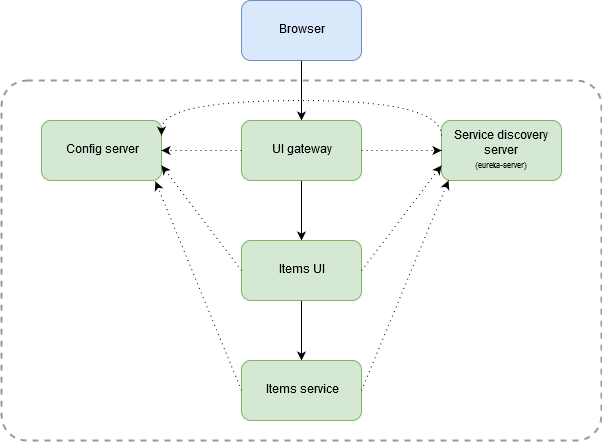
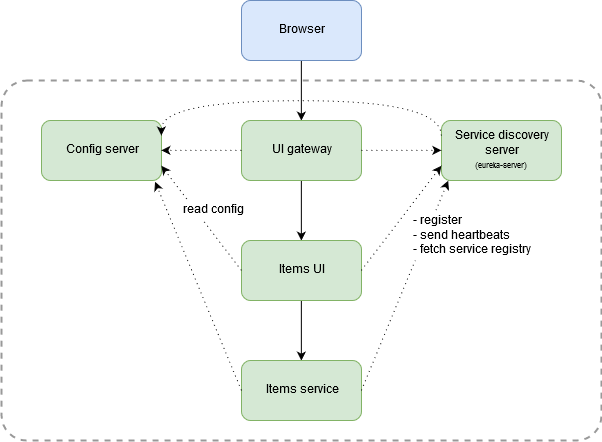
Improve readme

diff --git a/ui-gateway/src/test/kotlin/io/microservicesexample/uigateway/UiGatewayApplicationTests.kt b/ui-gateway/src/test/kotlin/io/microservicesexample/uigateway/UiGatewayApplicationTests.kt
@@ -32,5 +32,5 @@ class UiGatewayApplicationTests {
                 .expectHeader().contentType(MediaType.IMAGE_PNG)
     }
 
-    // todo more tests
+    // todo more tests. Tests with user credentials
 }

diff --git a/README.md b/README.md
@@ -1,26 +1,61 @@
 # Microservices example
-This is example of microservice architecture pattern
+This is an example of microservice architecture pattern implemented with following stack of Java-technologies:
+* JDK 11
+* Kotlin
+* Spring Cloud
+  * Spring Cloud Gateway
+  * Spring Cloud Config
+  * Spring Cloud Sleuth
+  * Spring Cloud OpenFeign
+  * Spring Cloud Netflix
+    * Eureka
+    * Hystrix
+    * Ribbon
+* Gradle with Gradle Kotlin DSL
+* JUnit
+* Other: Thymeleaf, Bootstrap, Webjars
 
-### Example consist of 5 microservices
+### Diagram of components
 ![-](/etc/images/diagram.png)
 
 ### Config server
-This microservice stores configs of all microservices
+Stores [configs](/config-server/src/main/resources/config) of all microservices.
 
 ### Service discovery server
-Eureka server is used
+Performs Service registry function. Spring Cloud Netflix Eureka is used which is [Client-side service discovery](https://microservices.io/patterns/client-side-discovery.html). 
+Each application sends heartbeats to Eureka server after registration.
 
 ### Items service
-Example of backend
+This is an example of back-end with [REST API](/items-service/src/main/kotlin/io/microservicesexample/itemsservice/RestApi.kt) 
+implemented with Spring WebFlux. HTTP requests are processed with 
+[handler](/items-service/src/main/kotlin/io/microservicesexample/itemsservice/ItemHandler.kt). Also microservice demonstrates 
+example of [sending additional metadata](/items-service/src/main/kotlin/io/microservicesexample/itemsservice/EurekaAdditionalMetadataReporter.kt).
 
 ### Items UI
-Example of UI
+This is an example of front-end which uses Thymeleaf for HTML-pages rendering and Bootstrap CSS framework (plugs in with 
+help of Webjars). Application contains a few example of interacting with back-end (Items service) by using different API:
+* [using](items-ui/src/main/kotlin/io/microservicesexample/itemsui/service/ItemsServiceClient.kt) RestTemplate
+* [using](items-ui/src/main/kotlin/io/microservicesexample/itemsui/service/ItemsServiceClient.kt) WebClient
+* [using](items-ui/src/main/kotlin/io/microservicesexample/itemsui/service/ItemsServiceFeignClient.kt) FeignClient and 
+Hystrix
+
+You can test all of these approaches by request to `http://localhost:8081/example`.
+
+You can test Hystrix fallback working by request to `http://localhost:8081/hystrix-fallback`.
 
 ### UI gateway
-This microservice performs authentication and routing to UI microservice
+Performs authentication and routing to UI microservices (only Items UI in this project). Routing implemented with Spring 
+Cloud Gateway which settings as well as other settings are stored in [YAML-config](microservices-example/config-server/src/main/resources/config/ui-gateway.yml). 
+Also application contains [route to Eureka](ui-gateway/src/main/kotlin/io/microservicesexample/uigateway/config/RoutesConfig.kt) 
+accessed by `https://localhost/eureka`. All routes you can see by request to `https://localhost/actuator/gateway/routes`. Access to 
+login page [implements](ui-gateway/src/main/kotlin/io/microservicesexample/uigateway/config/RoutesConfig.kt) using WebFlux. 
+You can perform authentication with one of [hardcoded](ui-gateway/src/main/kotlin/io/microservicesexample/uigateway/config/SecurityConfig.kt) 
+users. Application passes user's login and roles by [adding](ui-gateway/src/main/kotlin/io/microservicesexample/uigateway/misc/AddCredentialsGlobalFilter.kt) 
+it to HTTP request headers. You can request to `https://localhost/items-ui/greeting` to see passed credentials. Sure you 
+can access all other endpoints provided by Items UI. As well as Items UI this application uses Thymeleaf and Bootstrap for UI purposes.
 
 ##### SSL
-`ui-gateway` works on port 443. SSL certificate was created by using following command:
+`ui-gateway` works on port 443 and is available with HTTPS protocol. SSL certificate was created by using following command:
 ```
 keytool -genkey -alias test_key -storetype PKCS12 -keyalg RSA -keysize 2048 -keystore keystore.p12 -validity 3650
 ```
@@ -29,21 +64,13 @@ and with *qwerty* password.
 ##### Distributed tracing
 ![-](/etc/images/sleuth_tracing.png)
 
+This schema is simple, see [here](https://spring.io/projects/spring-cloud-sleuth) for details.
+
 ### Building
 `gradlew clean build`
 
 ### Running
-Run all microservices in the same order as they are listed. You should get something like:
+Run all microservices in the same order as they are listed. If you are using Intellij IDEA with enabled Run Dashboard you 
+should get something like:
 
 ![-](/etc/images/run_dashboard.png)
-
-### Implemented with
-* Java 11
-* Kotlin
-* Spring Cloud (Spring Cloud Gateway, Spring Cloud Sleuth, Netflix (Eureka, Hystrix, Feign, Ribbon))
-* Gradle Kotlin DSL
-* JUnit
-
-### Other used technologies
-* Webjars
-* Thymeleaf
